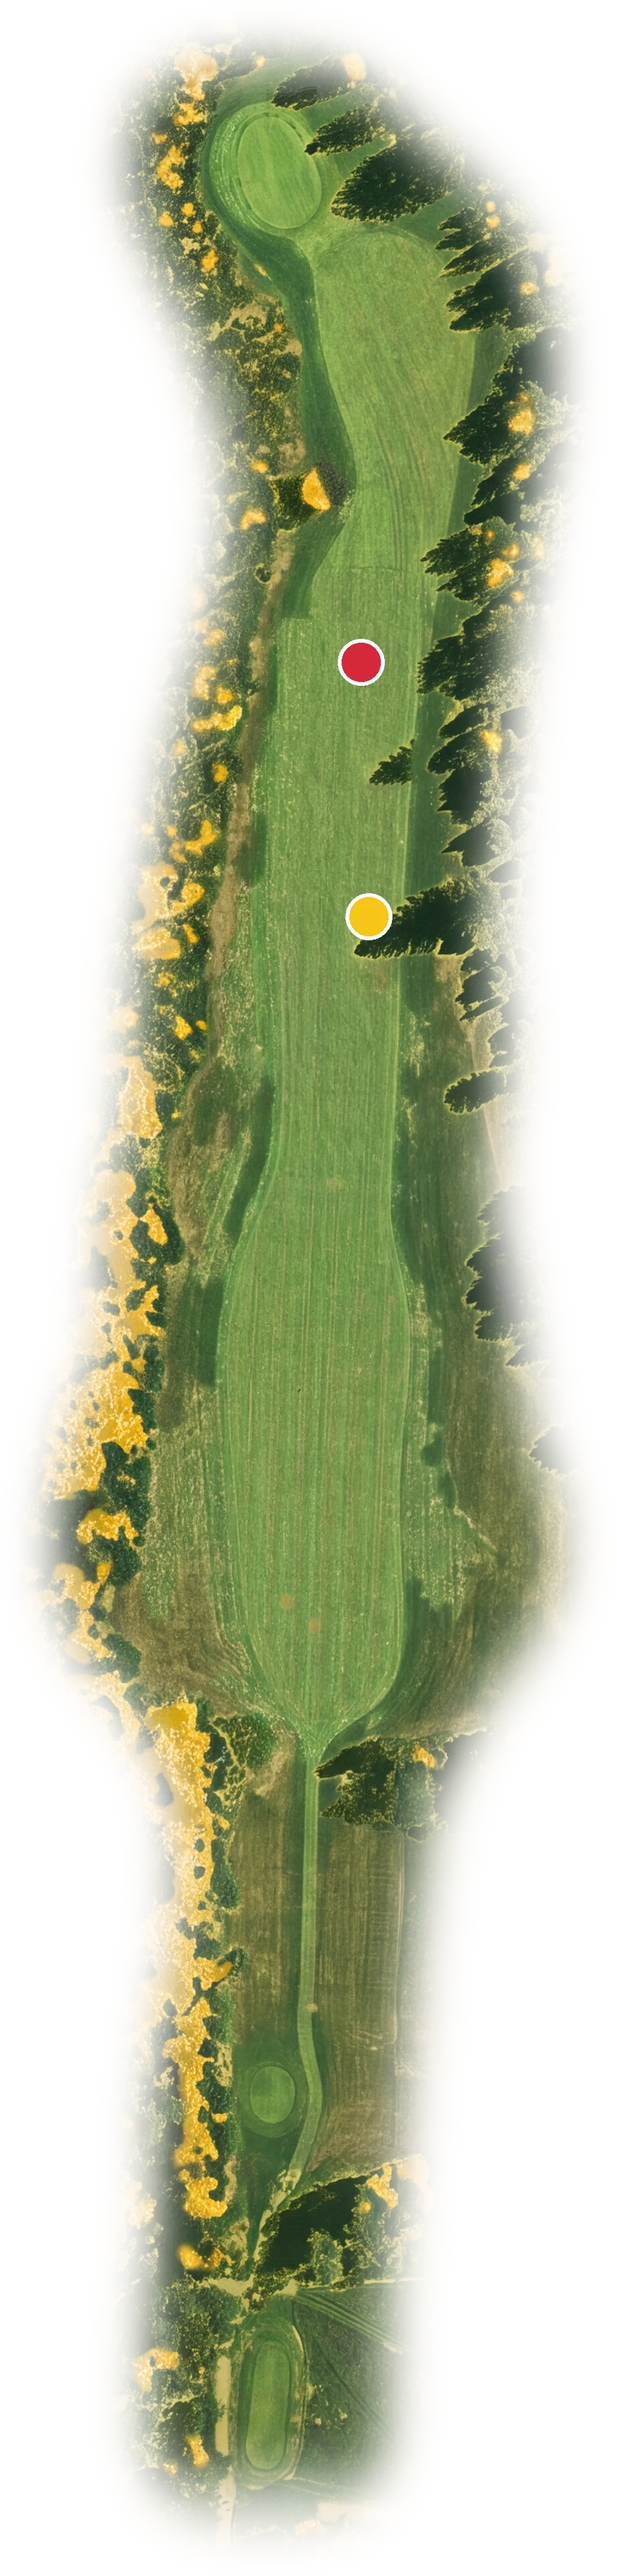
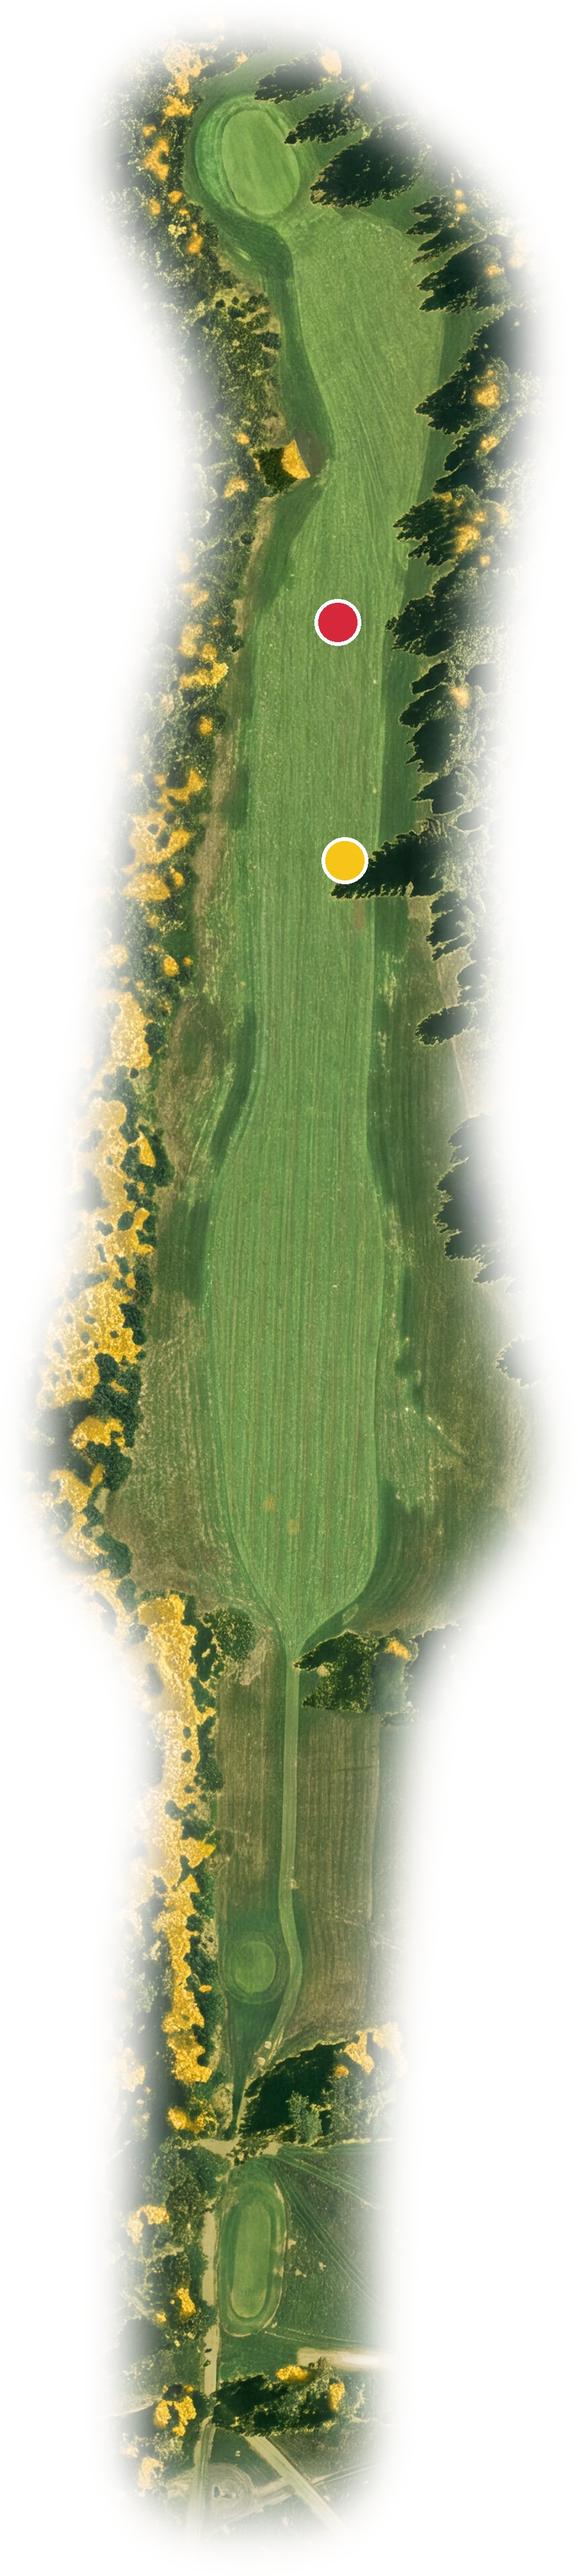
Hål 11: tee 60 33 m bakåt, ny målad hålbild (formpoäng 0,89), hålkort och hemsida
Tee 60 flyttad till 48 m bakom tee 56 enligt scorekortet (Eric). Alla tees inom ±3 %.
Nytt AI-underlag utan fläcken efter det nedtagna trädet, en målning (160 krediter).

Claude-Session: https://claude.ai/code/session_01LVA3nS1LCeVuqmfaNgeJKZ

diff --git a/hemsidor/glasriket/public/banan/index.html b/hemsidor/glasriket/public/banan/index.html
@@ -65,7 +65,7 @@
       <h2>Alla hål</h2>
       <p class="ingress">Välj ett hål för tees, längder och pro:ns råd.</p>
     </div>
-    <ul class="hk-lista"><li><a class="hk" href="/banan/hal-01/"><div class="hk-bild"><img class="" src="/img/hal/hal-01-667fea4993-520.webp" width="187" height="520" alt="Hål 1 ovanifrån, par 5, med tees utmärkta" loading="lazy" decoding="async"></div><div class="hk-text"><span class="hk-nr">Hål 1</span><span class="hk-fakta">Par 5 · 442 m</span><span class="hk-rubrik">Rundan börjar med en chans</span></div></a></li><li><a class="hk" href="/banan/hal-02/"><div class="hk-bild"><img class="" src="/img/hal/hal-02-0afa7595dc-520.webp" width="173" height="520" alt="Hål 2 ovanifrån, par 4, med tees utmärkta" loading="lazy" decoding="async"></div><div class="hk-text"><span class="hk-nr">Hål 2</span><span class="hk-fakta">Par 4 · 355 m</span><span class="hk-rubrik">Dammen bestämmer längden</span></div></a></li><li><a class="hk" href="/banan/hal-03/"><div class="hk-bild"><img class="" src="/img/hal/hal-03-ea0a15a1e0-520.webp" width="241" height="520" alt="Hål 3 ovanifrån, par 4, med tees utmärkta" loading="lazy" decoding="async"></div><div class="hk-text"><span class="hk-nr">Hål 3</span><span class="hk-fakta">Par 4 · 290 m</span><span class="hk-rubrik">Frestelsen heter 240 meter</span></div></a></li><li><a class="hk" href="/banan/hal-04/"><div class="hk-bild"><img class="" src="/img/hal/hal-04-6c26aab331-520.webp" width="198" height="520" alt="Hål 4 ovanifrån, par 3, med tees utmärkta" loading="lazy" decoding="async"></div><div class="hk-text"><span class="hk-nr">Hål 4</span><span class="hk-fakta">Par 3 · 176 m</span><span class="hk-rubrik">Rakt genom skogsgatan</span></div></a></li><li><a class="hk" href="/banan/hal-05/"><div class="hk-bild"><img class="" src="/img/hal/hal-05-52687bf1a1-520.webp" width="215" height="520" alt="Hål 5 ovanifrån, par 4, med tees utmärkta" loading="lazy" decoding="async"></div><div class="hk-text"><span class="hk-nr">Hål 5</span><span class="hk-fakta">Par 4 · 355 m</span><span class="hk-rubrik">Mer plats än du tror</span></div></a></li><li><a class="hk" href="/banan/hal-06/"><div class="hk-bild"><img class="" src="/img/hal/hal-06-2d79849694-520.webp" width="390" height="520" alt="Hål 6 ovanifrån, par 4, med tees utmärkta" loading="lazy" decoding="async"></div><div class="hk-text"><span class="hk-nr">Hål 6</span><span class="hk-fakta">Par 4 · 331 m</span><span class="hk-rubrik">Vänster först, sedan platån</span></div></a></li><li><a class="hk" href="/banan/hal-07/"><div class="hk-bild"><img class="" src="/img/hal/hal-07-8ec0c1fc3e-520.webp" width="277" height="520" alt="Hål 7 ovanifrån, par 3, med tees utmärkta" loading="lazy" decoding="async"></div><div class="hk-text"><span class="hk-nr">Hål 7</span><span class="hk-fakta">Par 3 · 116 m</span><span class="hk-rubrik">Banans bästa birdiechans</span></div></a></li><li><a class="hk" href="/banan/hal-08/"><div class="hk-bild"><img class="" src="/img/hal/hal-08-b9287dc916-520.webp" width="146" height="520" alt="Hål 8 ovanifrån, par 4, med tees utmärkta" loading="lazy" decoding="async"></div><div class="hk-text"><span class="hk-nr">Hål 8</span><span class="hk-fakta">Par 4 · 380 m</span><span class="hk-rubrik">Banans snabbaste green</span></div></a></li><li><a class="hk" href="/banan/hal-09/"><div class="hk-bild"><img class="" src="/img/hal/hal-09-ee3a566314-520.webp" width="122" height="520" alt="Hål 9 ovanifrån, par 5, med tees utmärkta" loading="lazy" decoding="async"></div><div class="hk-text"><span class="hk-nr">Hål 9</span><span class="hk-fakta">Par 5 · 473 m</span><span class="hk-rubrik">Bred start, smal final</span></div></a></li><li><a class="hk" href="/banan/hal-10/"><div class="hk-bild"><img class="" src="/img/hal/hal-10-c9f1e5ab58-520.webp" width="217" height="520" alt="Hål 10 ovanifrån, par 3, med tees utmärkta" loading="lazy" decoding="async"></div><div class="hk-text"><span class="hk-nr">Hål 10</span><span class="hk-fakta">Par 3 · 175 m</span><span class="hk-rubrik">Läs flaggan, känn vinden</span></div></a></li><li><a class="hk" href="/banan/hal-11/"><div class="hk-bild"><img class="" src="/img/hal/hal-11-14c6c54b20-520.webp" width="125" height="520" alt="Hål 11 ovanifrån, par 5, med tees utmärkta" loading="lazy" decoding="async"></div><div class="hk-text"><span class="hk-nr">Hål 11</span><span class="hk-fakta">Par 5 · 494 m</span><span class="hk-rubrik">Nålsögat från tee</span></div></a></li><li><a class="hk" href="/banan/hal-12/"><div class="hk-bild"><img class="" src="/img/hal/hal-12-8fd268d7e3-520.webp" width="135" height="520" alt="Hål 12 ovanifrån, par 5, med tees utmärkta" loading="lazy" decoding="async"></div><div class="hk-text"><span class="hk-nr">Hål 12</span><span class="hk-fakta">Par 5 · 527 m</span><span class="hk-rubrik">Tålamod genom skogen</span></div></a></li><li><a class="hk" href="/banan/hal-13/"><div class="hk-bild"><img class="" src="/img/hal/hal-13-6d56d8f61b-520.webp" width="198" height="520" alt="Hål 13 ovanifrån, par 4, med tees utmärkta" loading="lazy" decoding="async"></div><div class="hk-text"><span class="hk-nr">Hål 13</span><span class="hk-fakta">Par 4 · 359 m</span><span class="hk-rubrik">Sikta höger, landa mitt i</span></div></a></li><li><a class="hk" href="/banan/hal-14/"><div class="hk-bild"><img class="" src="/img/hal/hal-14-3439e935c8-520.webp" width="205" height="520" alt="Hål 14 ovanifrån, par 4, med tees utmärkta" loading="lazy" decoding="async"></div><div class="hk-text"><span class="hk-nr">Hål 14</span><span class="hk-fakta">Par 4 · 369 m</span><span class="hk-rubrik">Banans svåraste utslag</span></div></a></li><li><a class="hk" href="/banan/hal-15/"><div class="hk-bild"><img class="" src="/img/hal/hal-15-067bb4dac1-520.webp" width="179" height="520" alt="Hål 15 ovanifrån, par 4, med tees utmärkta" loading="lazy" decoding="async"></div><div class="hk-text"><span class="hk-nr">Hål 15</span><span class="hk-fakta">Par 4 · 324 m</span><span class="hk-rubrik">Följ den vänstra björken</span></div></a></li><li><a class="hk" href="/banan/hal-16/"><div class="hk-bild"><img class="" src="/img/hal/hal-16-2a0acb15cf-520.webp" width="311" height="520" alt="Hål 16 ovanifrån, par 4, med tees utmärkta" loading="lazy" decoding="async"></div><div class="hk-text"><span class="hk-nr">Hål 16</span><span class="hk-fakta">Par 4 · 297 m</span><span class="hk-rubrik">En snäll green bland vatten</span></div></a></li><li><a class="hk" href="/banan/hal-17/"><div class="hk-bild"><img class="" src="/img/hal/hal-17-d19f41647f-520.webp" width="267" height="520" alt="Hål 17 ovanifrån, par 3, med tees utmärkta" loading="lazy" decoding="async"></div><div class="hk-text"><span class="hk-nr">Hål 17</span><span class="hk-fakta">Par 3 · 128 m</span><span class="hk-rubrik">Signaturhålet över vattnet</span></div></a></li><li><a class="hk" href="/banan/hal-18/"><div class="hk-bild"><img class="" src="/img/hal/hal-18-9e5e2b1061-520.webp" width="115" height="520" alt="Hål 18 ovanifrån, par 4, med tees utmärkta" loading="lazy" decoding="async"></div><div class="hk-text"><span class="hk-nr">Hål 18</span><span class="hk-fakta">Par 4 · 423 m</span><span class="hk-rubrik">Precision hela vägen hem</span></div></a></li></ul>
+    <ul class="hk-lista"><li><a class="hk" href="/banan/hal-01/"><div class="hk-bild"><img class="" src="/img/hal/hal-01-667fea4993-520.webp" width="187" height="520" alt="Hål 1 ovanifrån, par 5, med tees utmärkta" loading="lazy" decoding="async"></div><div class="hk-text"><span class="hk-nr">Hål 1</span><span class="hk-fakta">Par 5 · 442 m</span><span class="hk-rubrik">Rundan börjar med en chans</span></div></a></li><li><a class="hk" href="/banan/hal-02/"><div class="hk-bild"><img class="" src="/img/hal/hal-02-0afa7595dc-520.webp" width="173" height="520" alt="Hål 2 ovanifrån, par 4, med tees utmärkta" loading="lazy" decoding="async"></div><div class="hk-text"><span class="hk-nr">Hål 2</span><span class="hk-fakta">Par 4 · 355 m</span><span class="hk-rubrik">Dammen bestämmer längden</span></div></a></li><li><a class="hk" href="/banan/hal-03/"><div class="hk-bild"><img class="" src="/img/hal/hal-03-ea0a15a1e0-520.webp" width="241" height="520" alt="Hål 3 ovanifrån, par 4, med tees utmärkta" loading="lazy" decoding="async"></div><div class="hk-text"><span class="hk-nr">Hål 3</span><span class="hk-fakta">Par 4 · 290 m</span><span class="hk-rubrik">Frestelsen heter 240 meter</span></div></a></li><li><a class="hk" href="/banan/hal-04/"><div class="hk-bild"><img class="" src="/img/hal/hal-04-6c26aab331-520.webp" width="198" height="520" alt="Hål 4 ovanifrån, par 3, med tees utmärkta" loading="lazy" decoding="async"></div><div class="hk-text"><span class="hk-nr">Hål 4</span><span class="hk-fakta">Par 3 · 176 m</span><span class="hk-rubrik">Rakt genom skogsgatan</span></div></a></li><li><a class="hk" href="/banan/hal-05/"><div class="hk-bild"><img class="" src="/img/hal/hal-05-52687bf1a1-520.webp" width="215" height="520" alt="Hål 5 ovanifrån, par 4, med tees utmärkta" loading="lazy" decoding="async"></div><div class="hk-text"><span class="hk-nr">Hål 5</span><span class="hk-fakta">Par 4 · 355 m</span><span class="hk-rubrik">Mer plats än du tror</span></div></a></li><li><a class="hk" href="/banan/hal-06/"><div class="hk-bild"><img class="" src="/img/hal/hal-06-2d79849694-520.webp" width="390" height="520" alt="Hål 6 ovanifrån, par 4, med tees utmärkta" loading="lazy" decoding="async"></div><div class="hk-text"><span class="hk-nr">Hål 6</span><span class="hk-fakta">Par 4 · 331 m</span><span class="hk-rubrik">Vänster först, sedan platån</span></div></a></li><li><a class="hk" href="/banan/hal-07/"><div class="hk-bild"><img class="" src="/img/hal/hal-07-8ec0c1fc3e-520.webp" width="277" height="520" alt="Hål 7 ovanifrån, par 3, med tees utmärkta" loading="lazy" decoding="async"></div><div class="hk-text"><span class="hk-nr">Hål 7</span><span class="hk-fakta">Par 3 · 116 m</span><span class="hk-rubrik">Banans bästa birdiechans</span></div></a></li><li><a class="hk" href="/banan/hal-08/"><div class="hk-bild"><img class="" src="/img/hal/hal-08-b9287dc916-520.webp" width="146" height="520" alt="Hål 8 ovanifrån, par 4, med tees utmärkta" loading="lazy" decoding="async"></div><div class="hk-text"><span class="hk-nr">Hål 8</span><span class="hk-fakta">Par 4 · 380 m</span><span class="hk-rubrik">Banans snabbaste green</span></div></a></li><li><a class="hk" href="/banan/hal-09/"><div class="hk-bild"><img class="" src="/img/hal/hal-09-ee3a566314-520.webp" width="122" height="520" alt="Hål 9 ovanifrån, par 5, med tees utmärkta" loading="lazy" decoding="async"></div><div class="hk-text"><span class="hk-nr">Hål 9</span><span class="hk-fakta">Par 5 · 473 m</span><span class="hk-rubrik">Bred start, smal final</span></div></a></li><li><a class="hk" href="/banan/hal-10/"><div class="hk-bild"><img class="" src="/img/hal/hal-10-c9f1e5ab58-520.webp" width="217" height="520" alt="Hål 10 ovanifrån, par 3, med tees utmärkta" loading="lazy" decoding="async"></div><div class="hk-text"><span class="hk-nr">Hål 10</span><span class="hk-fakta">Par 3 · 175 m</span><span class="hk-rubrik">Läs flaggan, känn vinden</span></div></a></li><li><a class="hk" href="/banan/hal-11/"><div class="hk-bild"><img class="" src="/img/hal/hal-11-dc5e7d1b16-520.webp" width="117" height="520" alt="Hål 11 ovanifrån, par 5, med tees utmärkta" loading="lazy" decoding="async"></div><div class="hk-text"><span class="hk-nr">Hål 11</span><span class="hk-fakta">Par 5 · 494 m</span><span class="hk-rubrik">Nålsögat från tee</span></div></a></li><li><a class="hk" href="/banan/hal-12/"><div class="hk-bild"><img class="" src="/img/hal/hal-12-8fd268d7e3-520.webp" width="135" height="520" alt="Hål 12 ovanifrån, par 5, med tees utmärkta" loading="lazy" decoding="async"></div><div class="hk-text"><span class="hk-nr">Hål 12</span><span class="hk-fakta">Par 5 · 527 m</span><span class="hk-rubrik">Tålamod genom skogen</span></div></a></li><li><a class="hk" href="/banan/hal-13/"><div class="hk-bild"><img class="" src="/img/hal/hal-13-6d56d8f61b-520.webp" width="198" height="520" alt="Hål 13 ovanifrån, par 4, med tees utmärkta" loading="lazy" decoding="async"></div><div class="hk-text"><span class="hk-nr">Hål 13</span><span class="hk-fakta">Par 4 · 359 m</span><span class="hk-rubrik">Sikta höger, landa mitt i</span></div></a></li><li><a class="hk" href="/banan/hal-14/"><div class="hk-bild"><img class="" src="/img/hal/hal-14-3439e935c8-520.webp" width="205" height="520" alt="Hål 14 ovanifrån, par 4, med tees utmärkta" loading="lazy" decoding="async"></div><div class="hk-text"><span class="hk-nr">Hål 14</span><span class="hk-fakta">Par 4 · 369 m</span><span class="hk-rubrik">Banans svåraste utslag</span></div></a></li><li><a class="hk" href="/banan/hal-15/"><div class="hk-bild"><img class="" src="/img/hal/hal-15-067bb4dac1-520.webp" width="179" height="520" alt="Hål 15 ovanifrån, par 4, med tees utmärkta" loading="lazy" decoding="async"></div><div class="hk-text"><span class="hk-nr">Hål 15</span><span class="hk-fakta">Par 4 · 324 m</span><span class="hk-rubrik">Följ den vänstra björken</span></div></a></li><li><a class="hk" href="/banan/hal-16/"><div class="hk-bild"><img class="" src="/img/hal/hal-16-2a0acb15cf-520.webp" width="311" height="520" alt="Hål 16 ovanifrån, par 4, med tees utmärkta" loading="lazy" decoding="async"></div><div class="hk-text"><span class="hk-nr">Hål 16</span><span class="hk-fakta">Par 4 · 297 m</span><span class="hk-rubrik">En snäll green bland vatten</span></div></a></li><li><a class="hk" href="/banan/hal-17/"><div class="hk-bild"><img class="" src="/img/hal/hal-17-d19f41647f-520.webp" width="267" height="520" alt="Hål 17 ovanifrån, par 3, med tees utmärkta" loading="lazy" decoding="async"></div><div class="hk-text"><span class="hk-nr">Hål 17</span><span class="hk-fakta">Par 3 · 128 m</span><span class="hk-rubrik">Signaturhålet över vattnet</span></div></a></li><li><a class="hk" href="/banan/hal-18/"><div class="hk-bild"><img class="" src="/img/hal/hal-18-9e5e2b1061-520.webp" width="115" height="520" alt="Hål 18 ovanifrån, par 4, med tees utmärkta" loading="lazy" decoding="async"></div><div class="hk-text"><span class="hk-nr">Hål 18</span><span class="hk-fakta">Par 4 · 423 m</span><span class="hk-rubrik">Precision hela vägen hem</span></div></a></li></ul>
   </div>
 </section>
 

diff --git a/hemsidor/glasriket/public/banan/hal-11/index.html b/hemsidor/glasriket/public/banan/hal-11/index.html
@@ -10,7 +10,7 @@
 <meta property="og:title" content="Hål 11 · Par 5 · Glasrikets GK">
 <meta property="og:description" content="Hål 11 på Glasrikets GK: par 5, 494 meter från längsta tee. Nålsögat från tee.">
 <meta property="og:url" content="https://www.glasriketsgk.se/banan/hal-11/">
-<meta property="og:image" content="https://www.glasriketsgk.se/img/hal/hal-11-14c6c54b20-900.webp">
+<meta property="og:image" content="https://www.glasriketsgk.se/img/hal/hal-11-dc5e7d1b16-900.webp">
 <meta property="og:locale" content="sv_SE">
 <meta property="og:site_name" content="Glasrikets Golfklubb">
 <meta name="theme-color" content="#10202E">
@@ -44,7 +44,7 @@
         <p class="hal-par">Par 5<br>Index 13</p>
       </div>
     </div>
-    <figure class="hal-bild"><img class="" src="/img/hal/hal-11-14c6c54b20-900.webp" srcset="/img/hal/hal-11-14c6c54b20-900.webp 216w, /img/hal/hal-11-14c6c54b20-1800.webp 432w" sizes="(min-width: 900px) 34vw, 60vw" width="216" height="900" alt="Hål 11 ovanifrån, par 5, med tees utmärkta" decoding="async"><p class="prickar"><span class="prick prick-rod"></span>100 m kvar till greenens mitt<span class="prick prick-gul"></span>150 m</p><figcaption>Underlag: Ortofoto och Markhöjdmodell ©Lantmäteriet, bearbetat, CC BY 4.0</figcaption></figure>
+    <figure class="hal-bild"><img class="" src="/img/hal/hal-11-dc5e7d1b16-900.webp" srcset="/img/hal/hal-11-dc5e7d1b16-900.webp 202w, /img/hal/hal-11-dc5e7d1b16-1800.webp 405w" sizes="(min-width: 900px) 34vw, 60vw" width="202" height="900" alt="Hål 11 ovanifrån, par 5, med tees utmärkta" decoding="async"><p class="prickar"><span class="prick prick-rod"></span>100 m kvar till greenens mitt<span class="prick prick-gul"></span>150 m</p><figcaption>Underlag: Ortofoto och Markhöjdmodell ©Lantmäteriet, bearbetat, CC BY 4.0</figcaption></figure>
     <div class="hal-text">
       <table class="tees"><caption>Tee och längd</caption><tbody><tr><th scope="row">60</th><td>494&nbsp;m</td></tr><tr><th scope="row">56</th><td>446&nbsp;m</td></tr><tr><th scope="row">52 · 49</th><td>384&nbsp;m</td></tr><tr><th scope="row">44</th><td>320&nbsp;m</td></tr></tbody></table>
       <p class="hal-rubrik">Nålsögat från tee</p>

diff --git a/docs/flode.md b/docs/flode.md
@@ -46,7 +46,8 @@
 - [ ] Höjddata i rapporten (uppför/nedför) – `Elevation` finns, kopplas in när vi har filerna
 - [ ] Signatur med riktigt ortofoto (koden är klar; visar platshållare när `data/<klubb>/` saknas i sessionen)
 - [x] Glasriket hål 5 (2026-10-23): tees omkontrollerade mot ortofoto och höjdskuggning (teeplattorna syns): 49/44 och 56/52 flyttade till plattornas mitt, 60 beräknad 35 m bakom 56/52 (klubbens karta "+35"). Längd −0,8 / −0,9 / −2,5 % (ok). Nytt underlag (gråa fläckar vid dammen och bruna fläckar i fairway retuscherade), en målning (160 krediter): formpoäng 0,84. Falska vattnet borta. Kvar för klubben: bekräfta tee 60; dammen är målad något större österut än hålfilens polygon (som på fotot).
-- [ ] **Glasriket, status 18 hål (2026-10-23):** hålfil, målad hålbild och hålkort (layout 1) finns för alla 18. Längdkontroll ok utom hål 3 (alla tre tees) och hål 11 (en tee); hål 5 rättat 2026-10-23. Rättat efter granskning 2026-10-23: hål 1 (greenbunkern flyttad till synlig sand, formpoäng 0,90), hål 2 (stenar retuscherade ur underlaget, formpoäng 0,73), hål 4 (skugga som såg ut som damm + brun fläck retuscherade, formpoäng 0,92). Kort i `/mnt/project-files/glasriket/halkort-v3/kort/`.
+- [x] Glasriket hål 11 (2026-10-24): tee 60 flyttad 33 m bakåt med Eric (scorekortet: 48 m bakom tee 56; inget tydligt teeplan på fotot, klubben bekräftar). Längd 60 −1,1 % · 56 −1,2 % · 52/49 −0,3 % · 44 +1,1 % (ok). Nytt underlag (fläcken efter det nedtagna fairwayträdet retuscherad med ren fairway), en målning (160 krediter): formpoäng 0,89, inget träd tillbaka. Hålkort, hemsida, prospekt och SoMe-kit omgjorda.
+- [ ] **Glasriket, status 18 hål (2026-10-23):** hålfil, målad hålbild och hålkort (layout 1) finns för alla 18. Längdkontroll ok utom hål 3 (alla tre tees); hål 5 rättat 2026-10-23, hål 11 rättat 2026-10-24. Rättat efter granskning 2026-10-23: hål 1 (greenbunkern flyttad till synlig sand, formpoäng 0,90), hål 2 (stenar retuscherade ur underlaget, formpoäng 0,73), hål 4 (skugga som såg ut som damm + brun fläck retuscherade, formpoäng 0,92). Kort i `/mnt/project-files/glasriket/halkort-v3/kort/`.
 - [x] Klubbens flagga, flaggan mitt på green och outlinjer (2026-10-24, Erics beslut): flaggan ritas med klubbens logga på duk i klubbens färg ur `klubb.yaml` (`flagga: {logga, farg}`; Glasriket: sigillet Småland i vitt på profilens Sjö #1D4756). Klubb utan fältet får T-flaggan. Flaggan står i puttytans mitt (`greenytans_mitt`: ytans medelpunkt, tål självkorsande polygoner – hål 7 och 15 stod förut i kanten) eller på hålfilens `flagga_punkt` (hål 1 och 2, satt mot ortofotot). Outlinjer ur klubbens banguide 2025 som `ob:` i hålfilen (sida + meter längs spellinjen) ritas som tunn vit streckad linje i trädlinjen (hålfilens `trees`); ritas på hål 1 (höger), 3, 5, 14, 16, 18. Ej ritade: hål 1 vänster och hål 8 (ingen sammanhängande trädlinje), hål 15 (trädlinjen utanför bildens synliga yta) – klubben anger. Alla 18 hålbilder bytta utan ommålning med `verktyg/byt_flagga.py`: ytan under gamla flaggan tas ur originalmålningen (alla 18 hittade, sparade i `data/glasriket/ai/hNN/vald-hal-NN.png`), och `halbilder/hal-NN-malad-utan-flagga.webp` sparas så att nästa flaggbyte inte behöver sudda något (`aibild` sparar den också). Kontaktark: `/mnt/project-files/glasriket/halkort-v3/kontroll/greener-flagga-kontaktark.jpg`.
 - [x] Texturrendering: Klassisk och Nordisk ritas med texturkit (gräs, vatten, lövverk, penseldrag) klippta efter exakta masker – demo-kit utklippt ur AI-skisserna
 - [ ] Högupplösta texturkit för tryck (genereras som rena texturer, inte hela hål) + kit för Arv och Signatur-ljussättning
